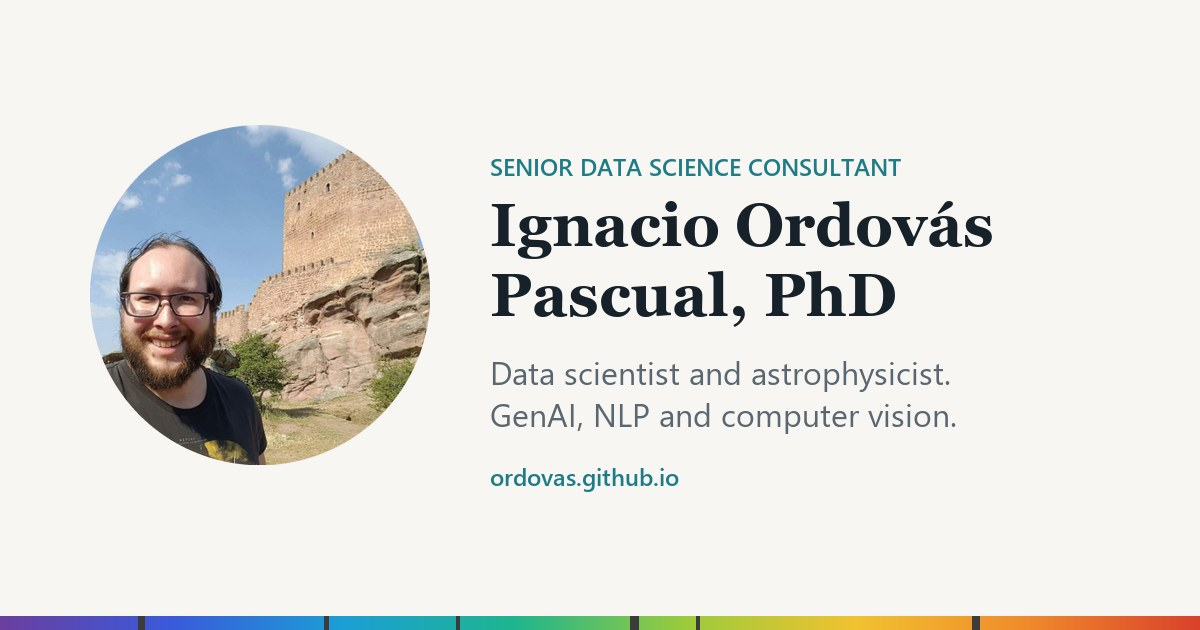
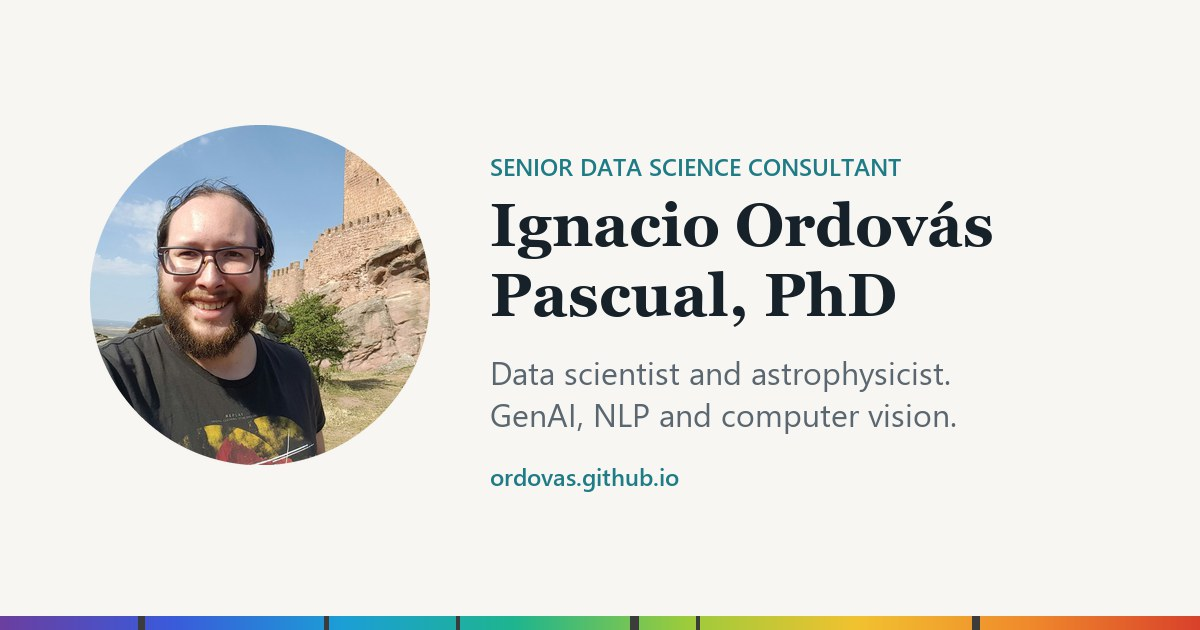
Update cv, profile

Changed region(s): [[0.0617, 0.181, 0.37, 0.754], [0.1542, 0.2111, 0.185, 0.2413]]

diff --git a/assets/css/main.css b/assets/css/main.css
@@ -111,7 +111,7 @@ strong { font-weight: 600; }
 }
 .header-inner { display: flex; align-items: center; gap: 1rem; min-height: 3.75rem; }
 .brand { display: flex; align-items: center; gap: .6rem; color: var(--text); text-decoration: none; font-weight: 600; margin-right: auto; }
-.brand img { width: 32px; height: 32px; border-radius: 50%; object-fit: cover; clip-path: circle(42.5%); transform: scale(1.15); }
+.brand img { width: 32px; height: 32px; border-radius: 50%; object-fit: cover; }
 .site-nav { display: flex; align-items: center; gap: .25rem; }
 .site-nav a { color: var(--muted); text-decoration: none; padding: .4rem .7rem; border-radius: 8px; font-size: .95rem; font-weight: 500; }
 .site-nav a:hover { color: var(--text); background: var(--surface-2); }
@@ -183,7 +183,7 @@ strong { font-weight: 600; }
    ========================================================================== */
 .hero { position: relative; }
 .hero-inner { display: grid; grid-template-columns: auto 1fr; align-items: center; gap: clamp(1.5rem, 5vw, 3.5rem); padding-block: clamp(3rem, 8vw, 5.5rem) clamp(2.5rem, 6vw, 4rem); }
-.hero-photo { width: clamp(140px, 22vw, 220px); height: auto; aspect-ratio: 1; border-radius: 50%; object-fit: cover; clip-path: circle(42.5%); transform: scale(1.15); }
+.hero-photo { width: clamp(140px, 22vw, 220px); height: auto; aspect-ratio: 1; border-radius: 50%; object-fit: cover; box-shadow: var(--shadow); }
 .hero h1 { font-size: clamp(2.1rem, 5.5vw, 3.4rem); margin-bottom: .35em; }
 .honorific { color: var(--muted); font-weight: 500; }
 .hero .lead { font-size: clamp(1.05rem, 2vw, 1.25rem); color: var(--text); opacity: .85; }
